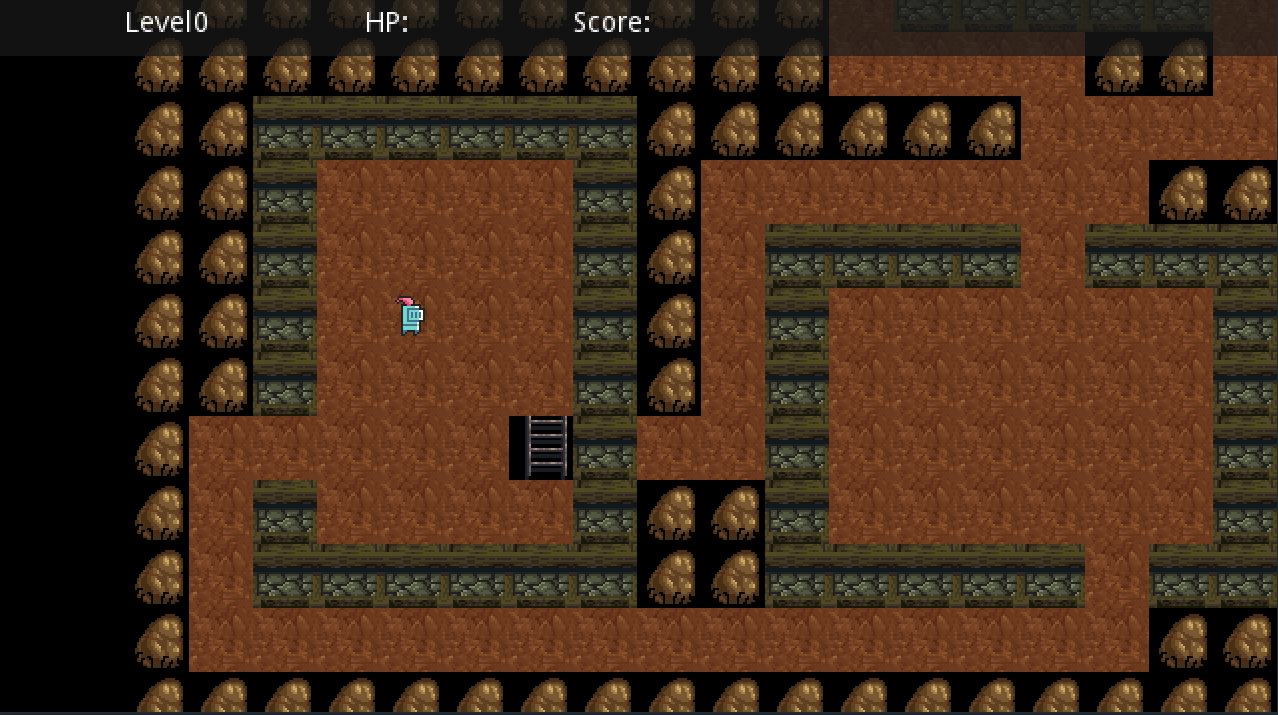
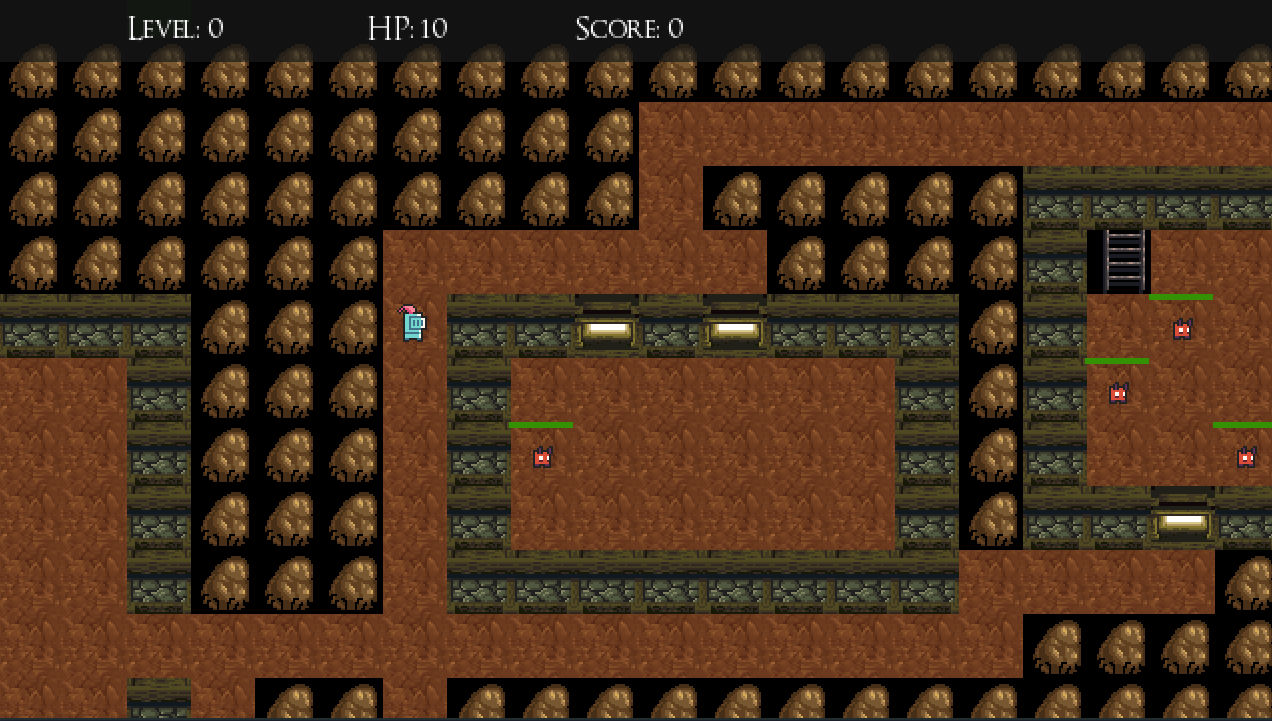
docs: updated readme with most recent status and updated screenshot

diff --git a/README.md b/README.md
@@ -14,12 +14,11 @@ All sprites and tilesets used here are **completely open source**.
 - Procedual level generation
 - Score system
 - Multiple levels
-
+- Enemies pursue the player
 
 ### Known bugs
 
 - Doors may spawn out of the walls
-- Rooms may be created without doors
 - Visibility layer does not work correcly and is more clear than it should
 
 
